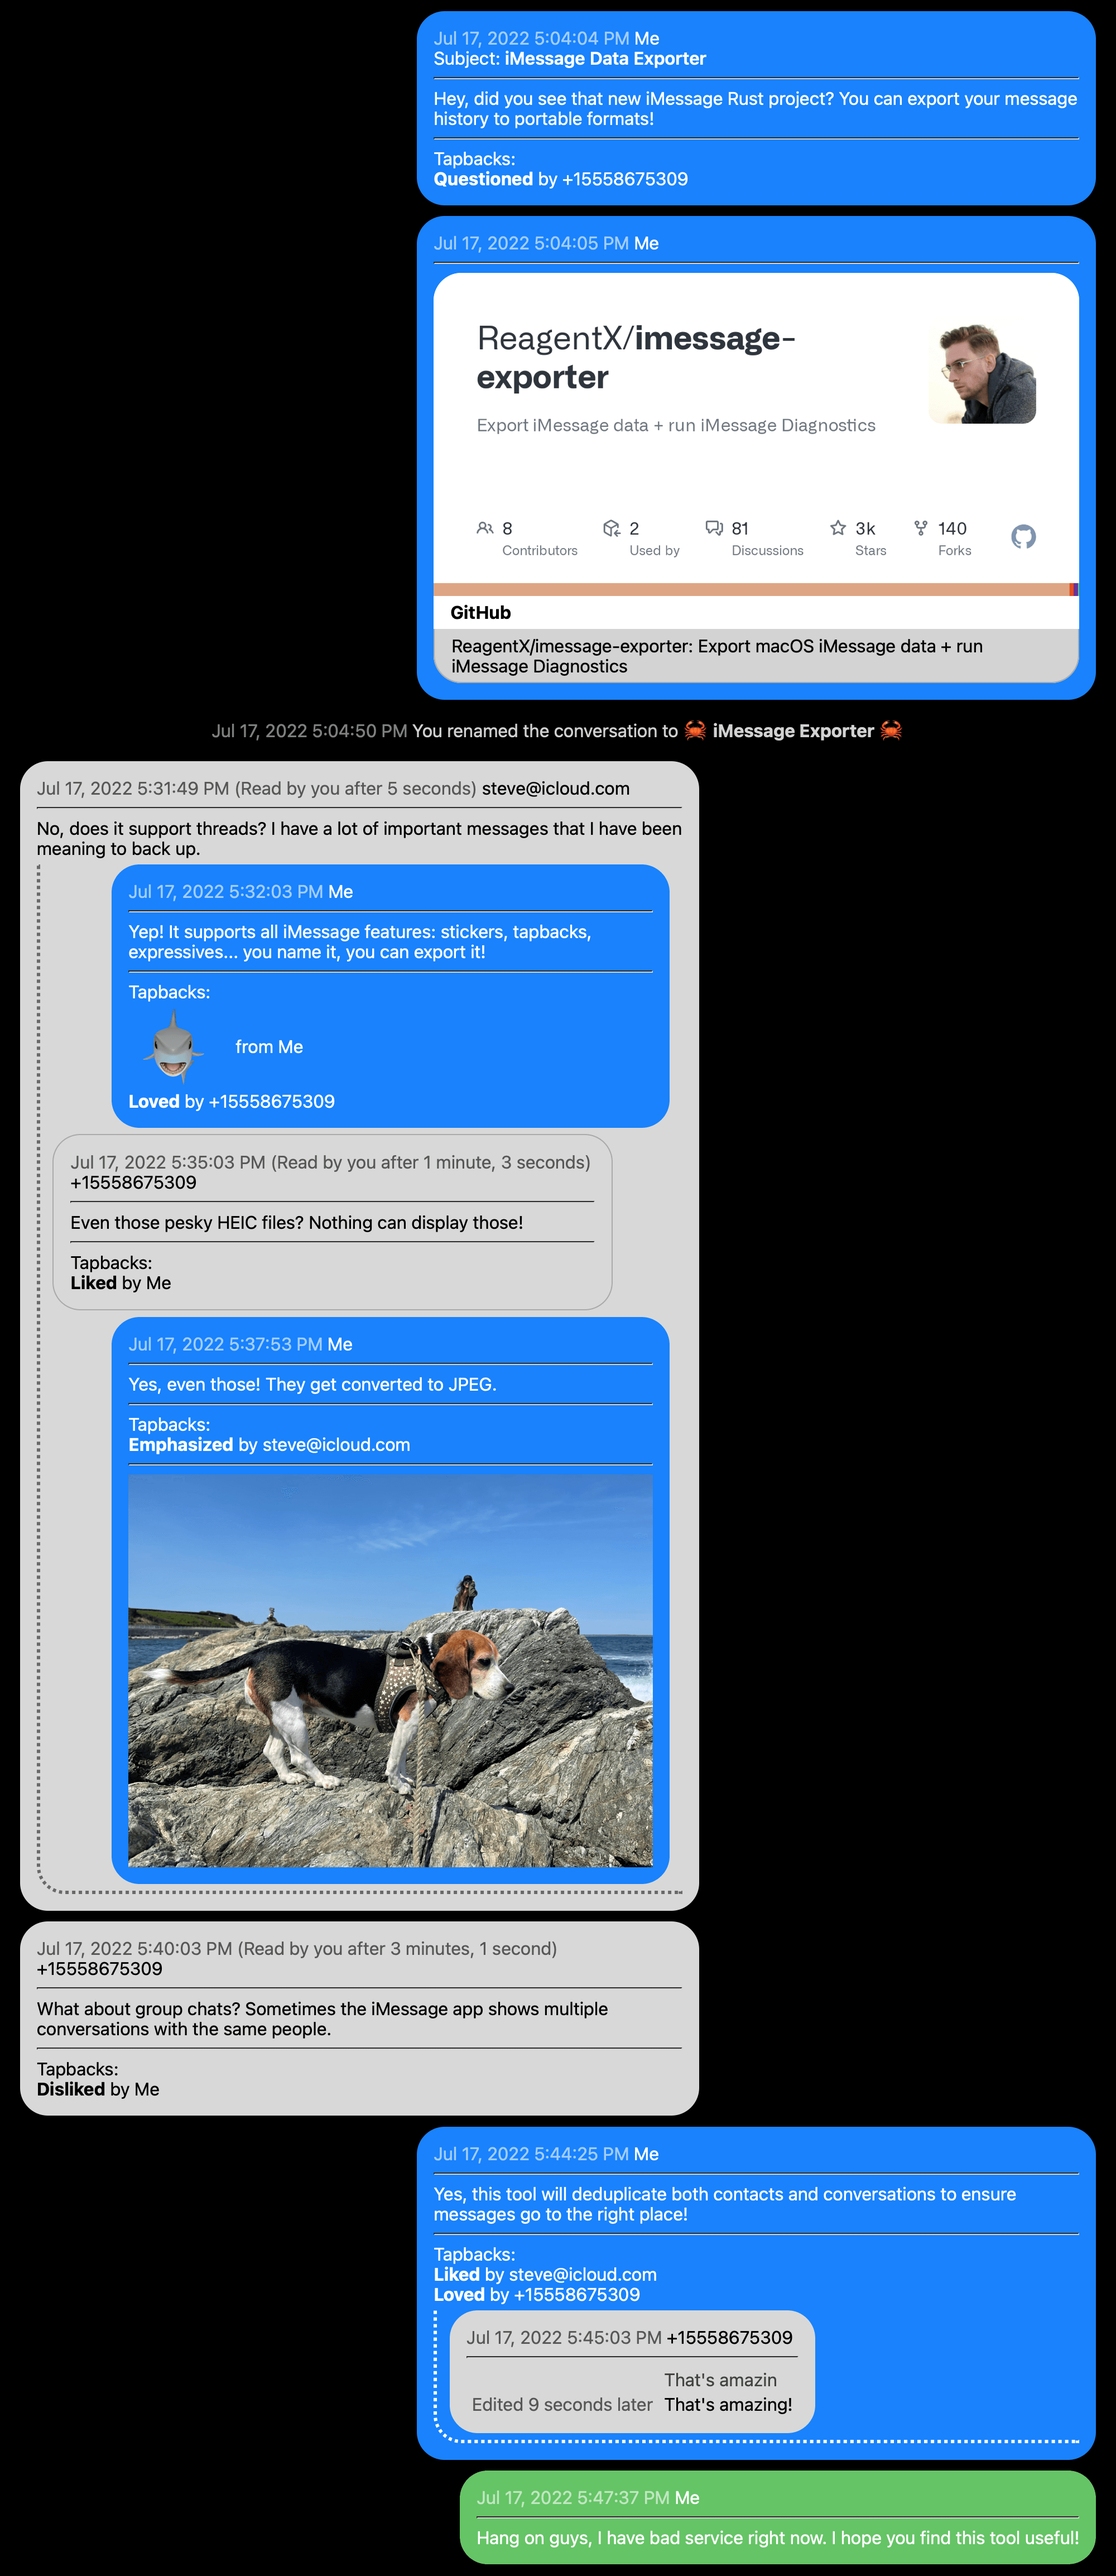
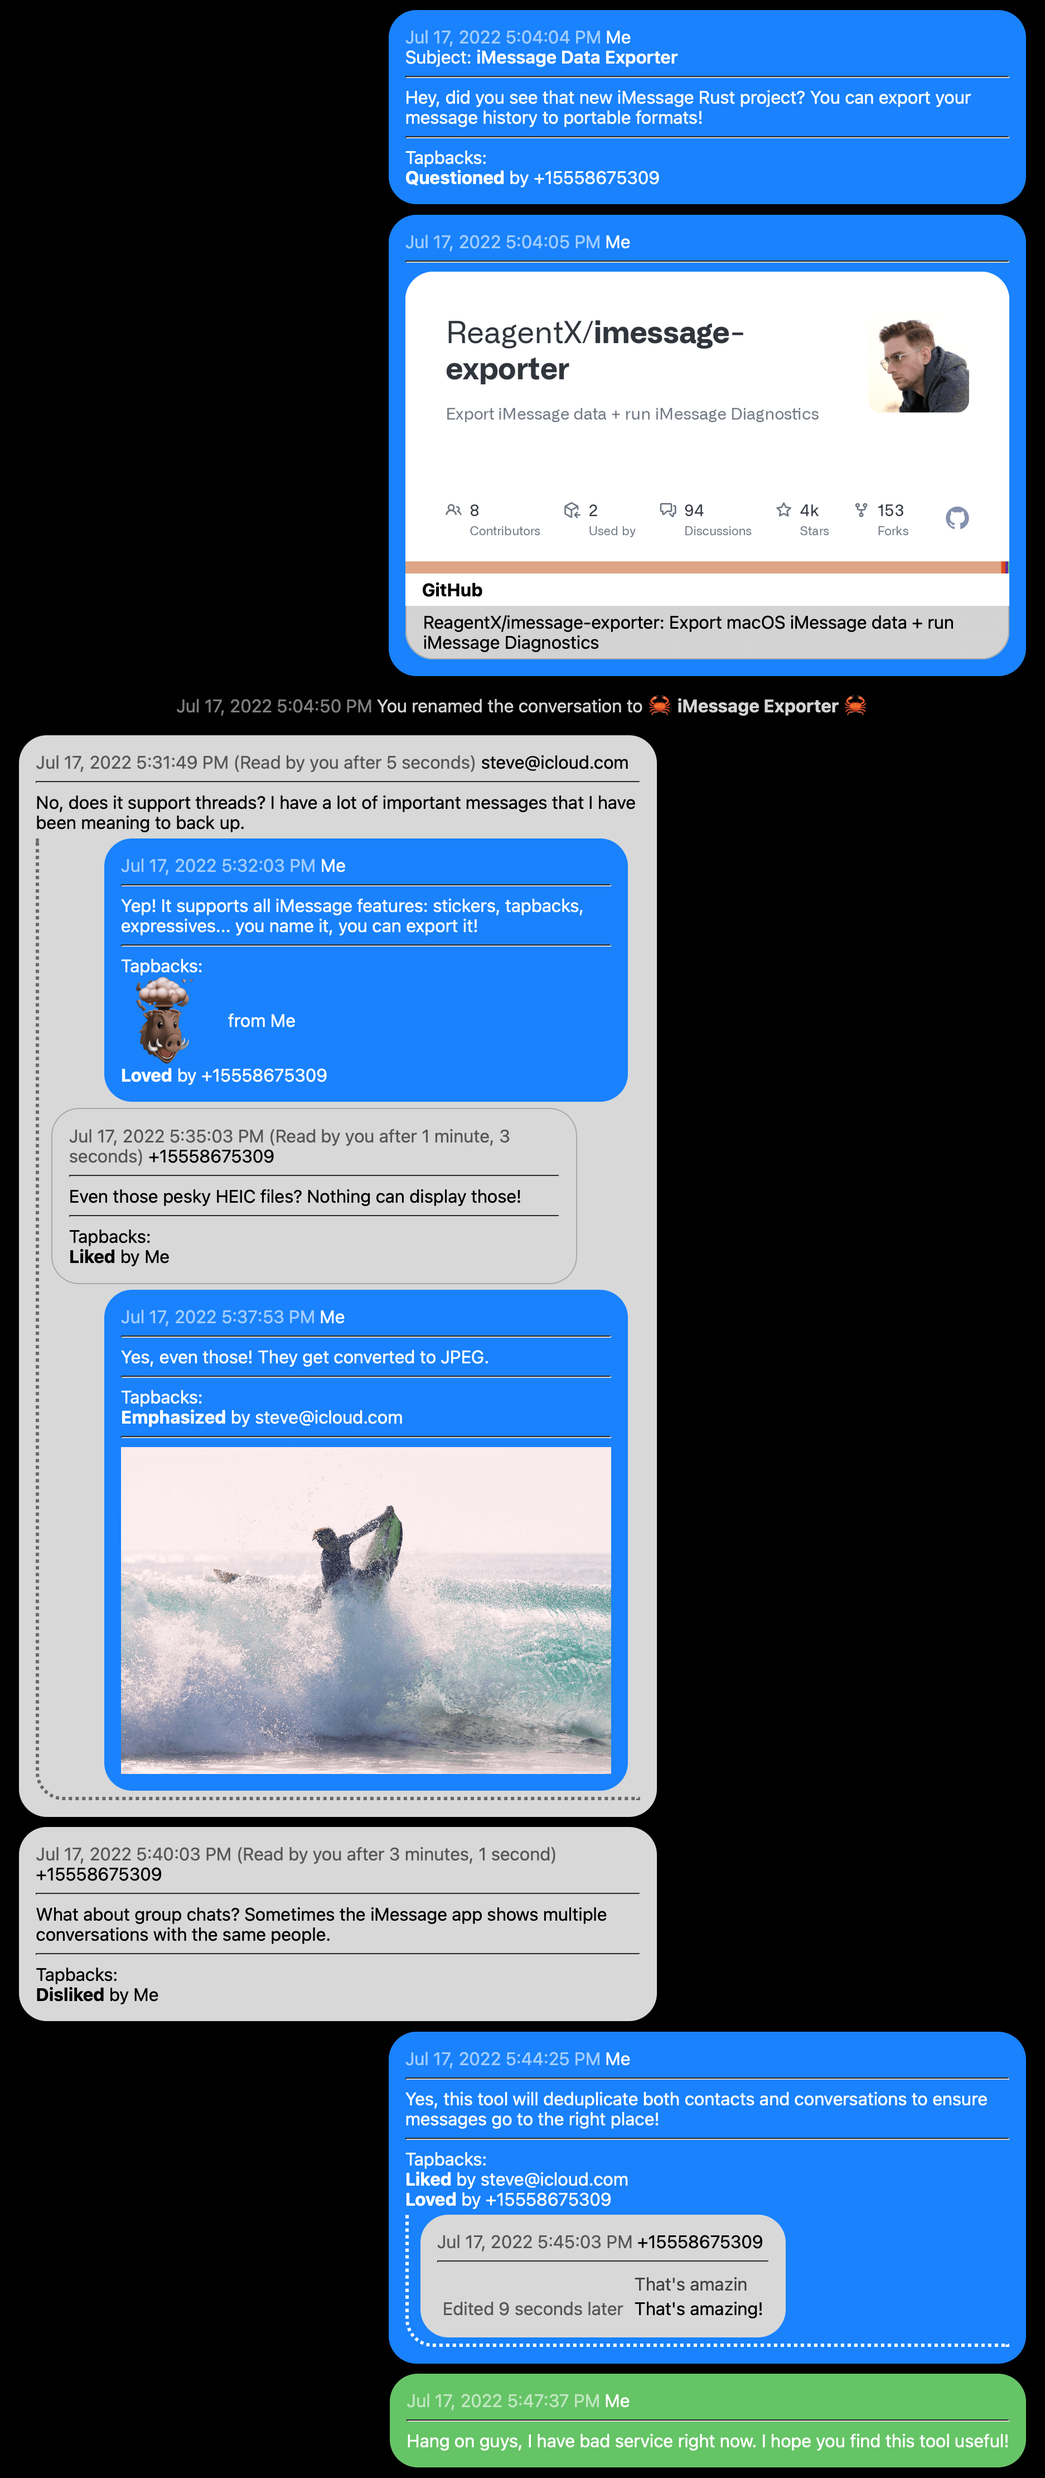
Update hero images

Changed region(s): [[0.0, 0.2175, 0.9904, 1.0], [0.3714, 0.0, 0.9904, 0.2175]]

diff --git a/imessage-exporter/src/exporters/resources/example.html b/imessage-exporter/src/exporters/resources/example.html
@@ -66,7 +66,7 @@
                         <div class="tapbacks">
                             <hr>
                             <p>Tapbacks:</p>
-                            <div class="tapback"><img src="attachments/shark.png" loading="lazy"><span
+                            <div class="tapback"><img src="attachments/boar.png" loading="lazy"><span
                                     class="tapback">from Me</span></div>
                             <div class="tapback"><span><b>Loved</b> by +15558675309</span></div>
                         </div>
@@ -105,7 +105,7 @@
                             <div class="tapback"><span><b>Emphasized</b> by steve@icloud.com</span></div>
                         </div>
                         <hr>
-                        <div class="message_part"><img src="attachments/bella.jpeg" loading="lazy"></div>
+                        <div class="message_part"><img src="attachments/davis.jpeg" loading="lazy"></div>
                     </div>
                 </div>
             </div>
